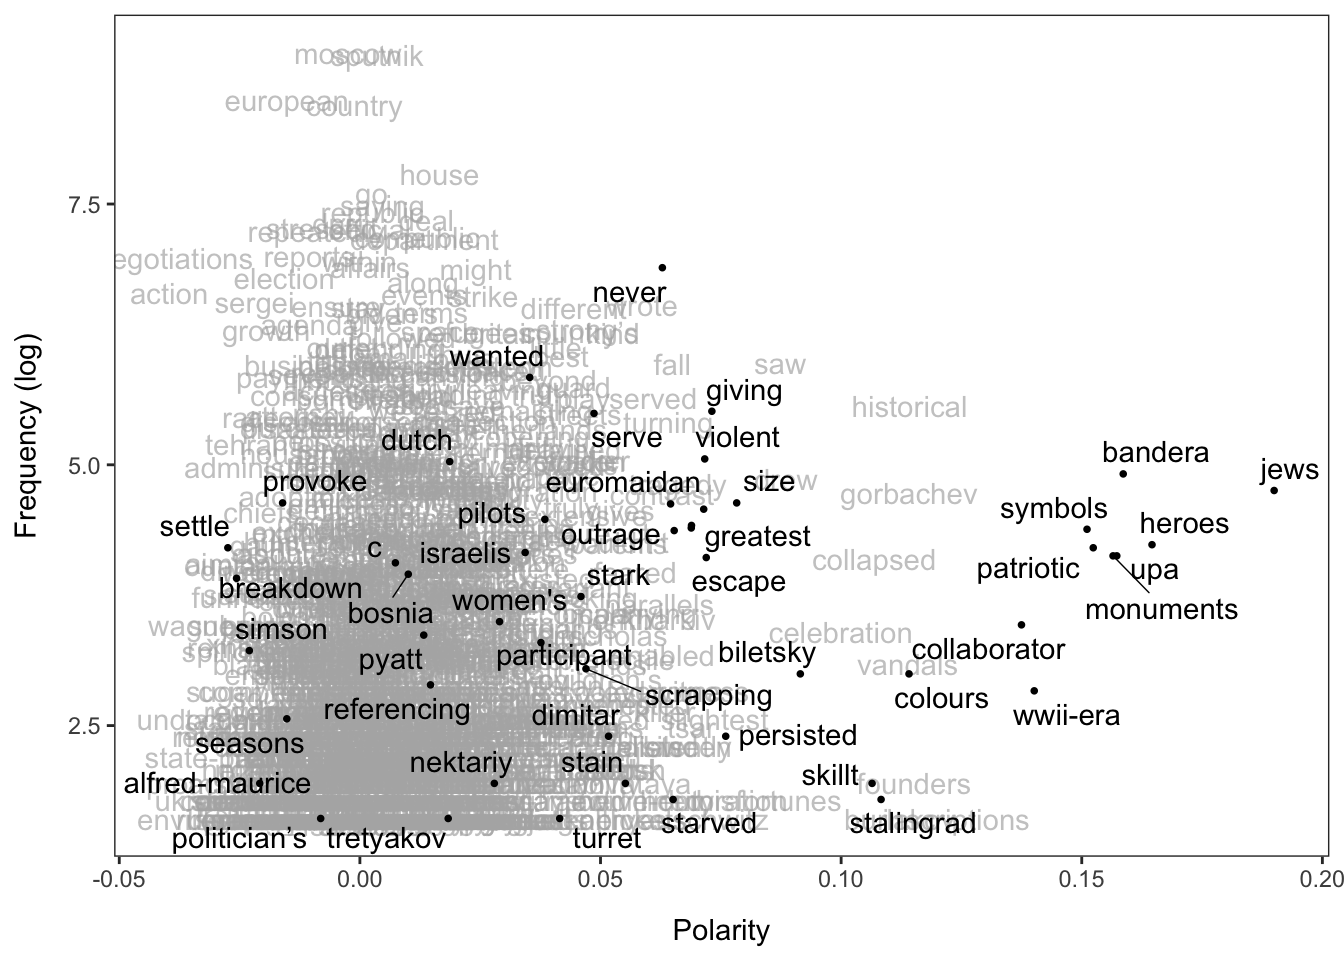
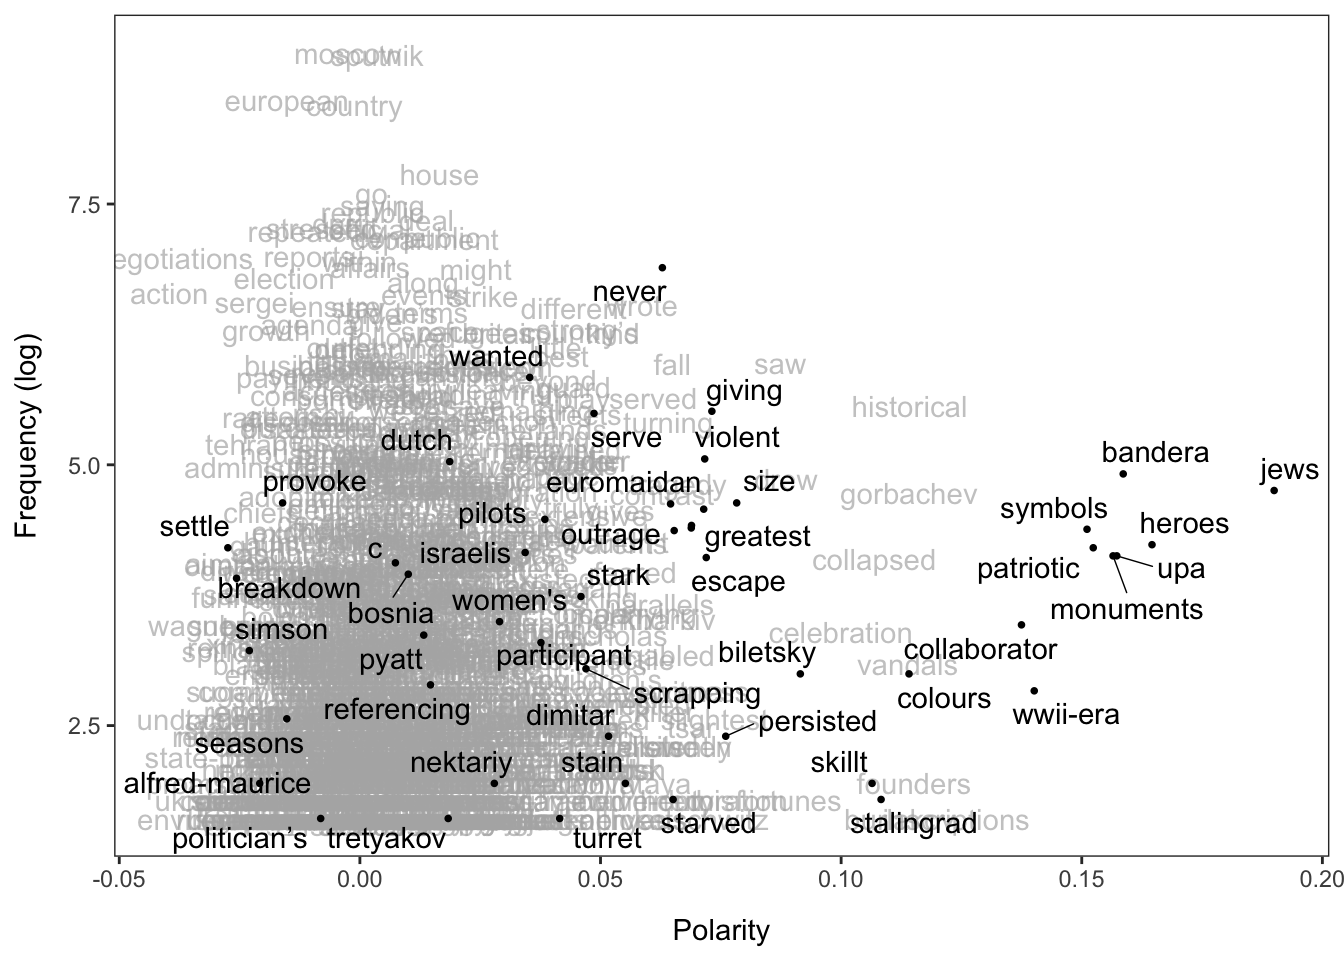
update

diff --git a/docs/tutorial/lss_tutorial.html b/docs/tutorial/lss_tutorial.html
@@ -151,7 +151,7 @@ div.csl-indent {
 <span class="menu-text">Tutorial</span></a>
   </li>  
   <li class="nav-item">
-    <a class="nav-link" href="../slides/lss_slides.qmd"> 
+    <a class="nav-link" href="../slides/lss_slides.html"> 
 <span class="menu-text">Slides</span></a>
   </li>  
 </ul>
@@ -473,7 +473,7 @@ unfortunate                           -0.1696293</code></pre>
 <div class="cell">
 <div class="code-copy-outer-scaffold"><div class="sourceCode cell-code" id="cb41"><pre class="sourceCode r code-with-copy"><code class="sourceCode r"><span id="cb41-1"><a href="#cb41-1" aria-hidden="true" tabindex="-1"></a><span class="fu">textplot_terms</span>(lss_sentiment)</span></code></pre></div><button title="Copy to Clipboard" class="code-copy-button"><i class="bi"></i></button></div>
 <div class="cell-output cell-output-stderr">
-<pre><code>Warning: ggrepel: 1 unlabeled data points (too many overlaps). Consider
+<pre><code>Warning: ggrepel: 3 unlabeled data points (too many overlaps). Consider
 increasing max.overlaps</code></pre>
 </div>
 <div class="cell-output-display">
@@ -523,7 +523,7 @@ increasing max.overlaps</code></pre>
 <span id="cb46-4"><a href="#cb46-4" aria-hidden="true" tabindex="-1"></a>                               <span class="at">group_data =</span> <span class="cn">TRUE</span>,</span>
 <span id="cb46-5"><a href="#cb46-5" aria-hidden="true" tabindex="-1"></a>                               <span class="at">cache =</span> <span class="cn">TRUE</span>)</span></code></pre></div><button title="Copy to Clipboard" class="code-copy-button"><i class="bi"></i></button></div>
 <div class="cell-output cell-output-stderr">
-<pre><code>Writing cache file: lss_cache/svds_880d3cd3883e22e4.RDS</code></pre>
+<pre><code>Reading cache file: lss_cache/svds_880d3cd3883e22e4.RDS</code></pre>
 </div>
 </div>
 <p>Now, let’s predict polarity of documents.</p>
@@ -1009,7 +1009,7 @@ See help("Deprecated")</code></pre>
 <pre><code> ...removing separators, punctuation, symbols, numbers, URLs </code></pre>
 </div>
 <div class="cell-output cell-output-stderr">
-<pre><code> ...complete, elapsed time: 0.029 seconds.</code></pre>
+<pre><code> ...complete, elapsed time: 0.093 seconds.</code></pre>
 </div>
 <div class="cell-output cell-output-stderr">
 <pre><code>Finished constructing tokens from 2 documents.</code></pre>
@@ -1029,7 +1029,7 @@ See help("Deprecated")</code></pre>
 <pre><code> ...found 2 documents, 306 features</code></pre>
 </div>
 <div class="cell-output cell-output-stderr">
-<pre><code> ...complete, elapsed time: 0.019 seconds.</code></pre>
+<pre><code> ...complete, elapsed time: 0.035 seconds.</code></pre>
 </div>
 <div class="cell-output cell-output-stderr">
 <pre><code>Finished constructing a 2 x 306 sparse dfm.</code></pre>
